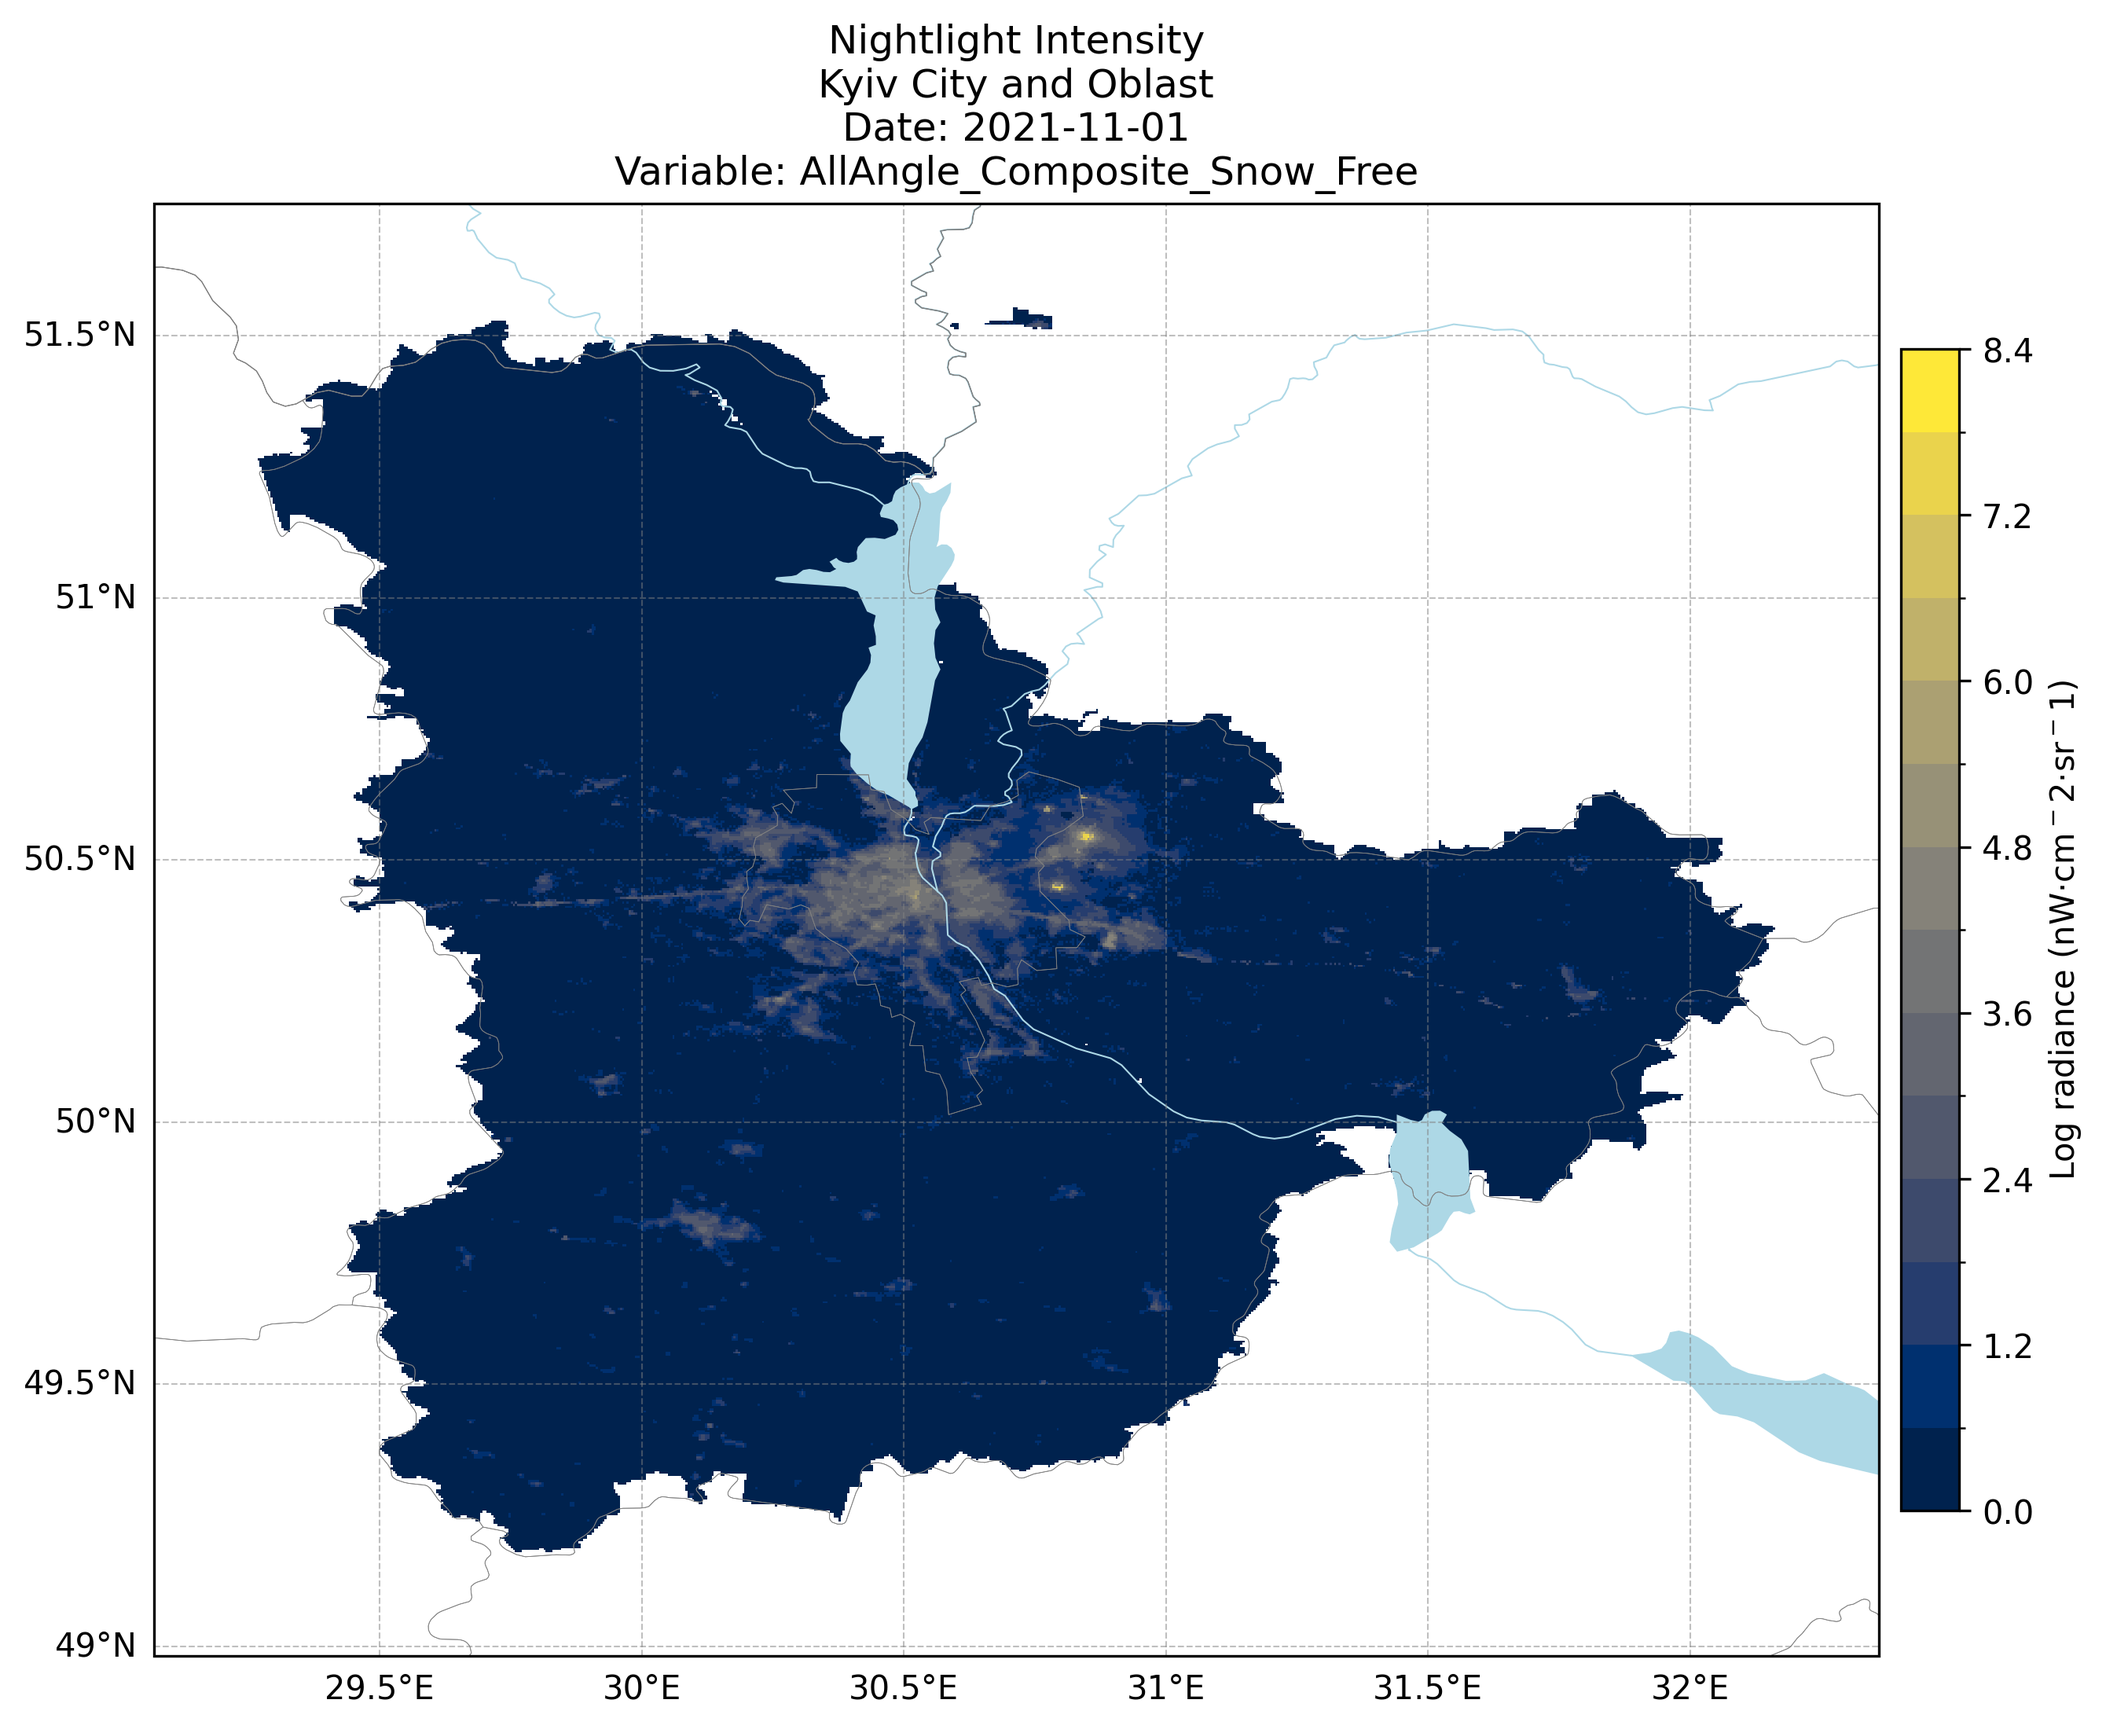
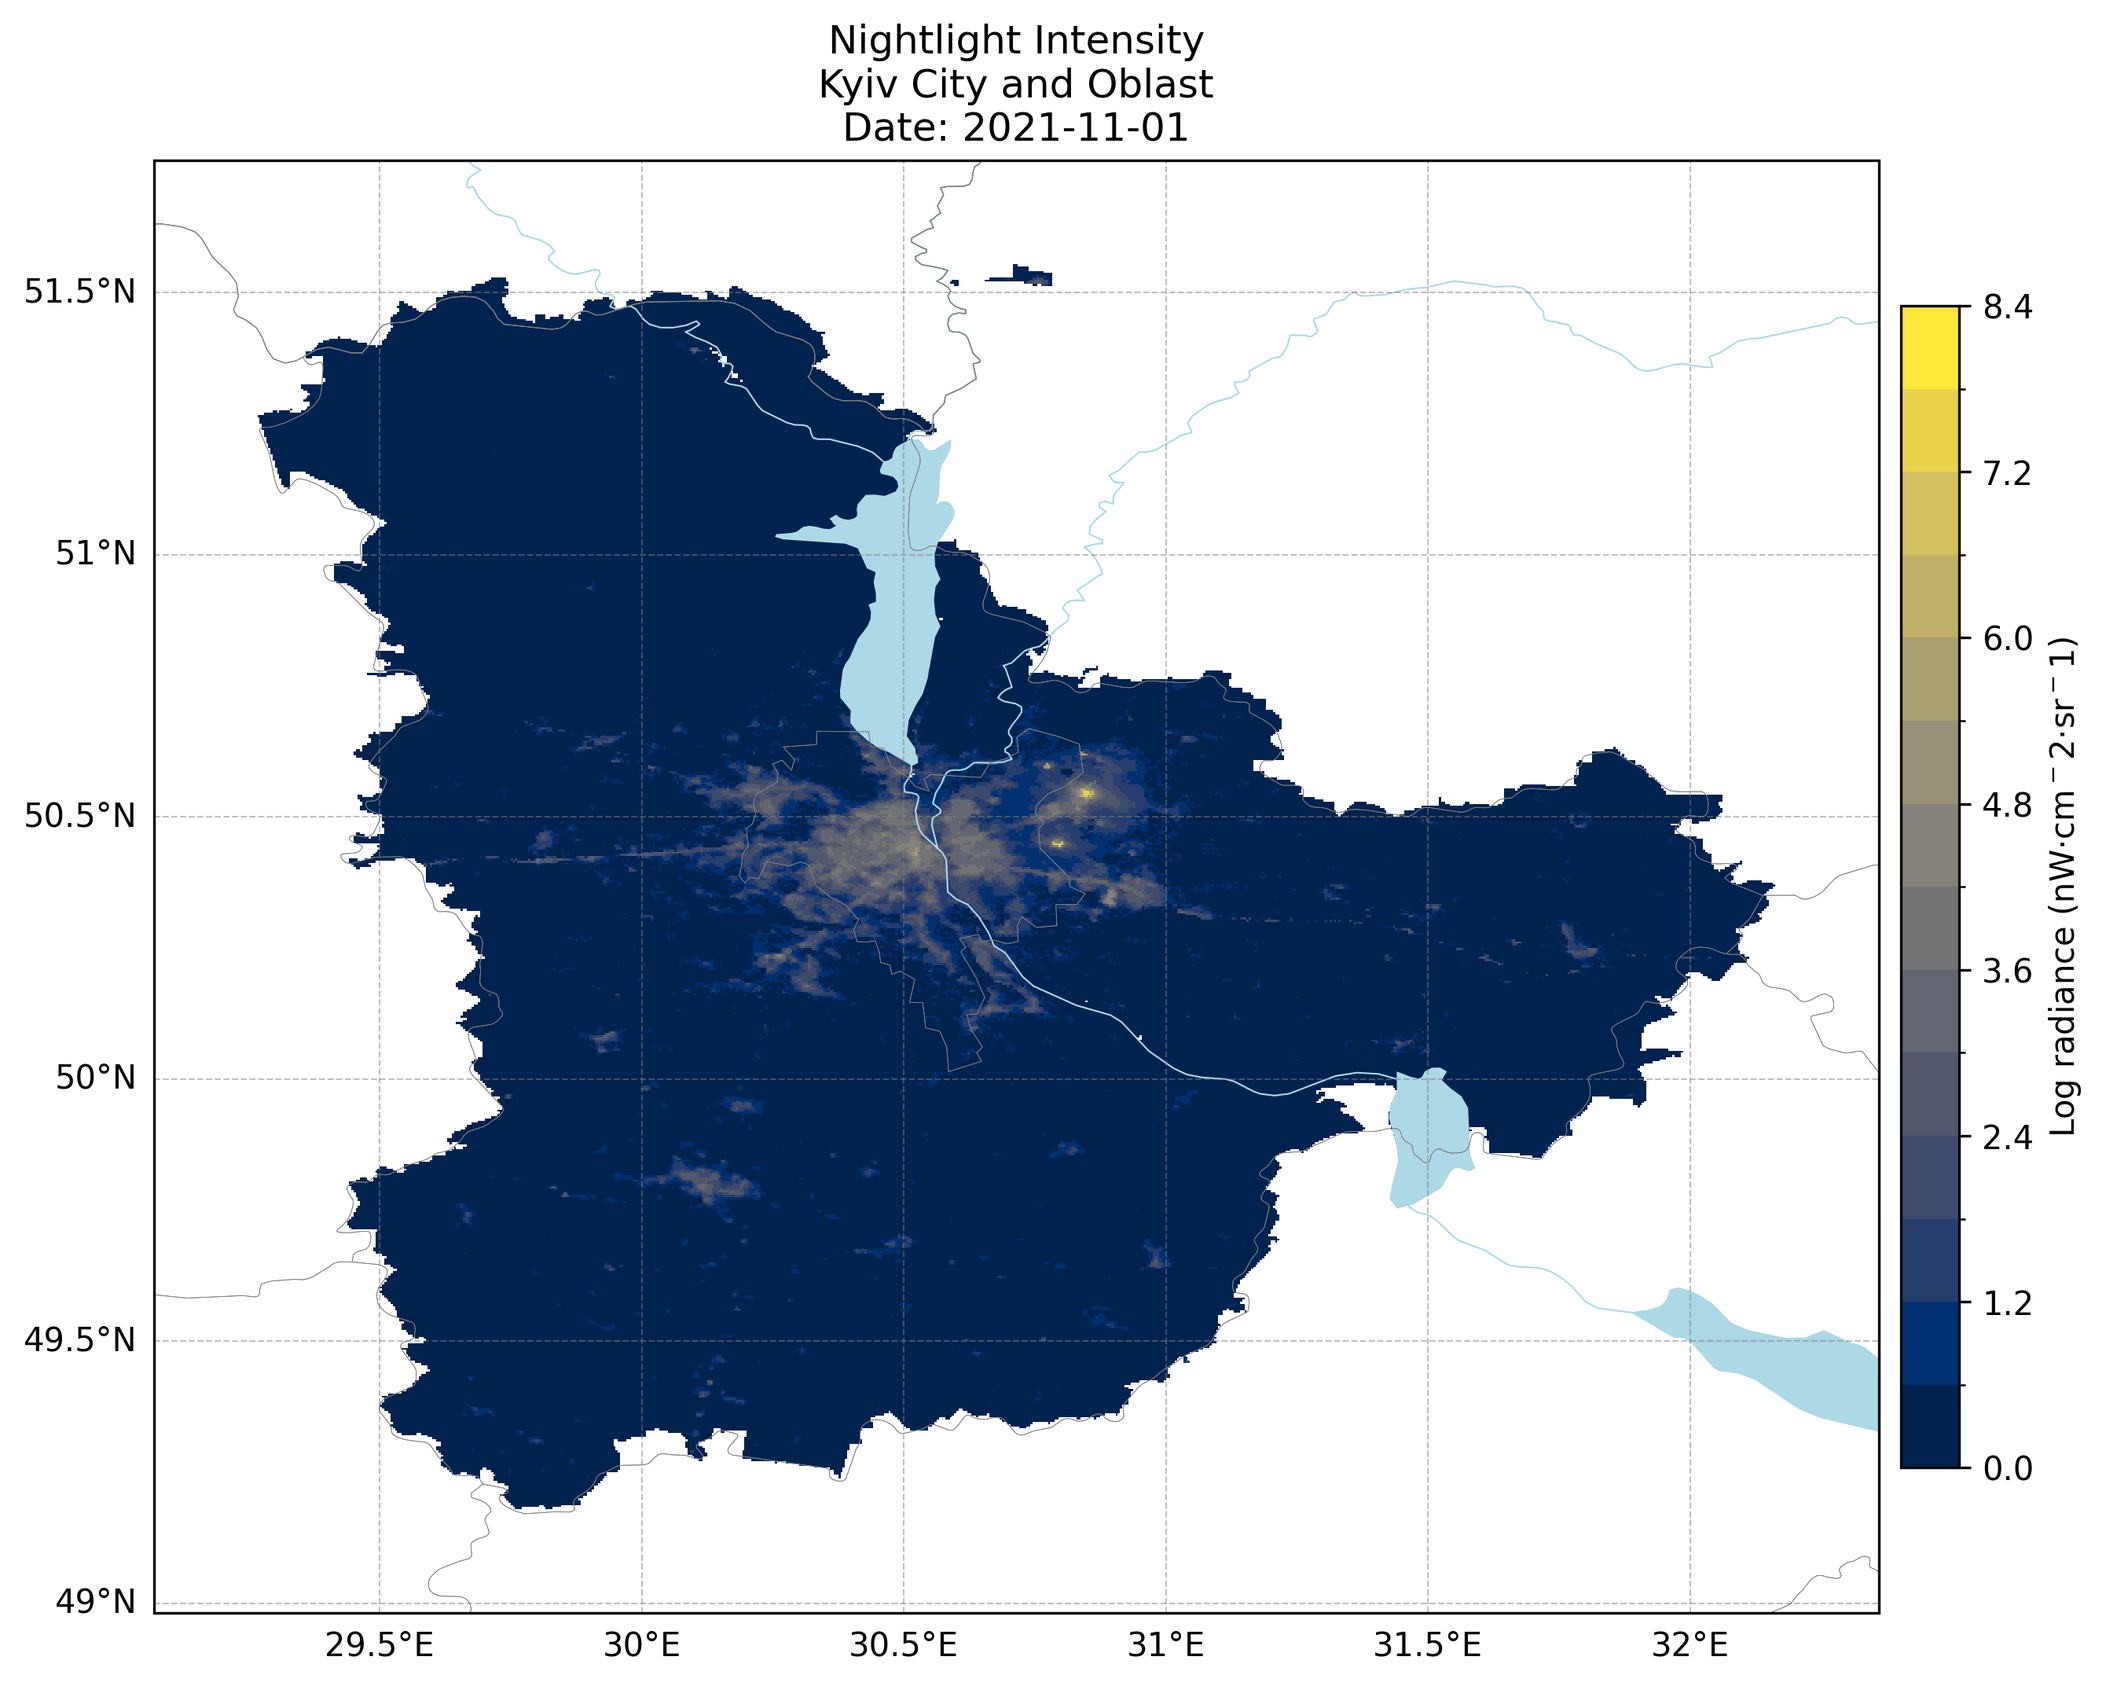
good plots

diff --git a/nightlights/plotting.py b/nightlights/plotting.py
@@ -222,7 +222,7 @@ def plot_nightlights(
     set_map_extent(ax, (lons, lats))
 
     # Add title with date and variable information
-    title = f"{title}\nDate: {date}\nVariable: {variable_name}"
+    title = f"{title}\nDate: {date}"
     plt.title(title)
 
     # Save the plot if output_dir is provided

diff --git a/README.md b/README.md
@@ -104,10 +104,10 @@ plotting.create_lineplot(
     region_crs=region_crs,
     functions=functions,
     events=events,
-    cut_off=1,
+    cut_off=1, # Will only consider values higher than the cut_off parameter for the lineplot
 )
 ```
-![Time Series Lineplot with Events](./assets/lineplot_20211101_AllAngle_Composite_Snow_Free.png)
+![Time Series Lineplot with Events](./assets/lineplot_AllAngle_Composite_Snow_Free.png)
 
 #### Side-by-Side Comparison
 
@@ -159,9 +159,8 @@ gdf = process.polygonize(
 gdf.head()
 ```
 
-```
+```markdown
 |    | pixel_id                         | tile   | date       | variable                     |   value | geometry
-                                                                                                 |
 |---:|:---------------------------------|:-------|:-----------|:-----------------------------|--------:|:--------------------------------------------------------------------------
 -------------------------------------------------------------------------------------------------|
 |  0 | 832d7e3f2e1e1b4c082450dc2c55695b | h21v04 | 2021-11-01 | AllAngle_Composite_Snow_Free |       0 | POLYGON ((30 49.99583333333334, 30.00416666666667 49.99583333333334, 30.00
